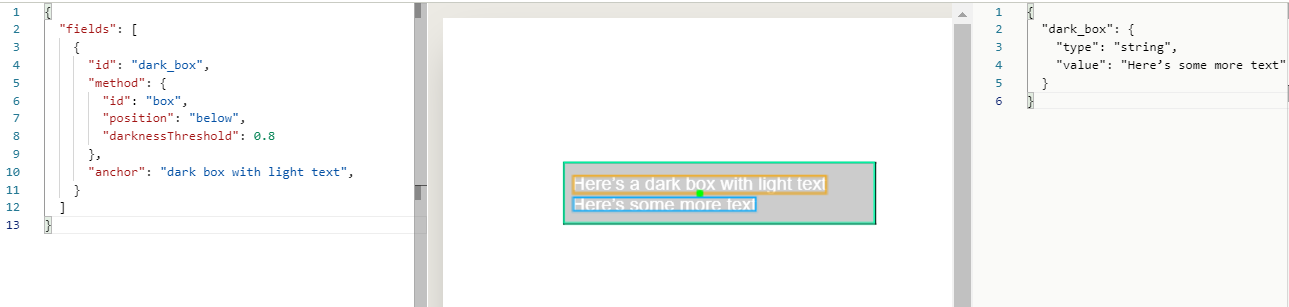
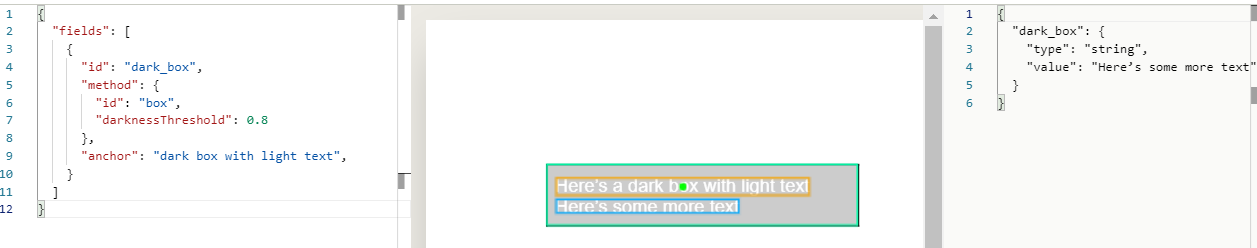
removing TODOs

diff --git a/readme-sync/v0/senseml-reference/methods/box.md b/readme-sync/v0/senseml-reference/methods/box.md
@@ -23,7 +23,7 @@ Examples
 
 **Simple box**
 
-The following image shows a config that grabs a dollar amount from a box in a 1099 form, based on anchor text matching in the box: TODO: remove position
+The following image shows a config that grabs a dollar amount from a box in a 1099 form, based on anchor text matching in the box: 
 
 ![](https://raw.githubusercontent.com/sensible-hq/sensible-docs/main/readme-sync/assets/images/v0/box_1099.png)
 
@@ -37,7 +37,6 @@ The config for the preceding example is:
       "type": "currency",
       "method": {
         "id": "box",
-        "position": "below"
       },
       "anchor": "rents"
     }
@@ -64,12 +63,12 @@ The config for the preceding example is:
       "id": "dark_box",
       "method": {
         "id": "box",
-        "position": "below",
         "darknessThreshold": 0.8
       },
       "anchor": "dark box with light text",
     }
   ]
+}
 
 ```
 
@@ -137,7 +136,7 @@ The oddly formatted boxes in this example illustrate how SenseML recognizes offs
 
 Note that when boxes are inconsistently sized, spanned, and aligned, as in the preceding image,  SenseML's determination of what constitutes a "box" and where the "middle" of the shared border is may be complex.  In such cases, examine the visual representation of the box and its starting position the Sensible app to understand SenseML's behavior, and keep in mind that another method might be a better fit for such a complex scenario.
 
-TODO: left off with offsetY and offsetX
+
 
 **Troubleshooting box recognition**
 
